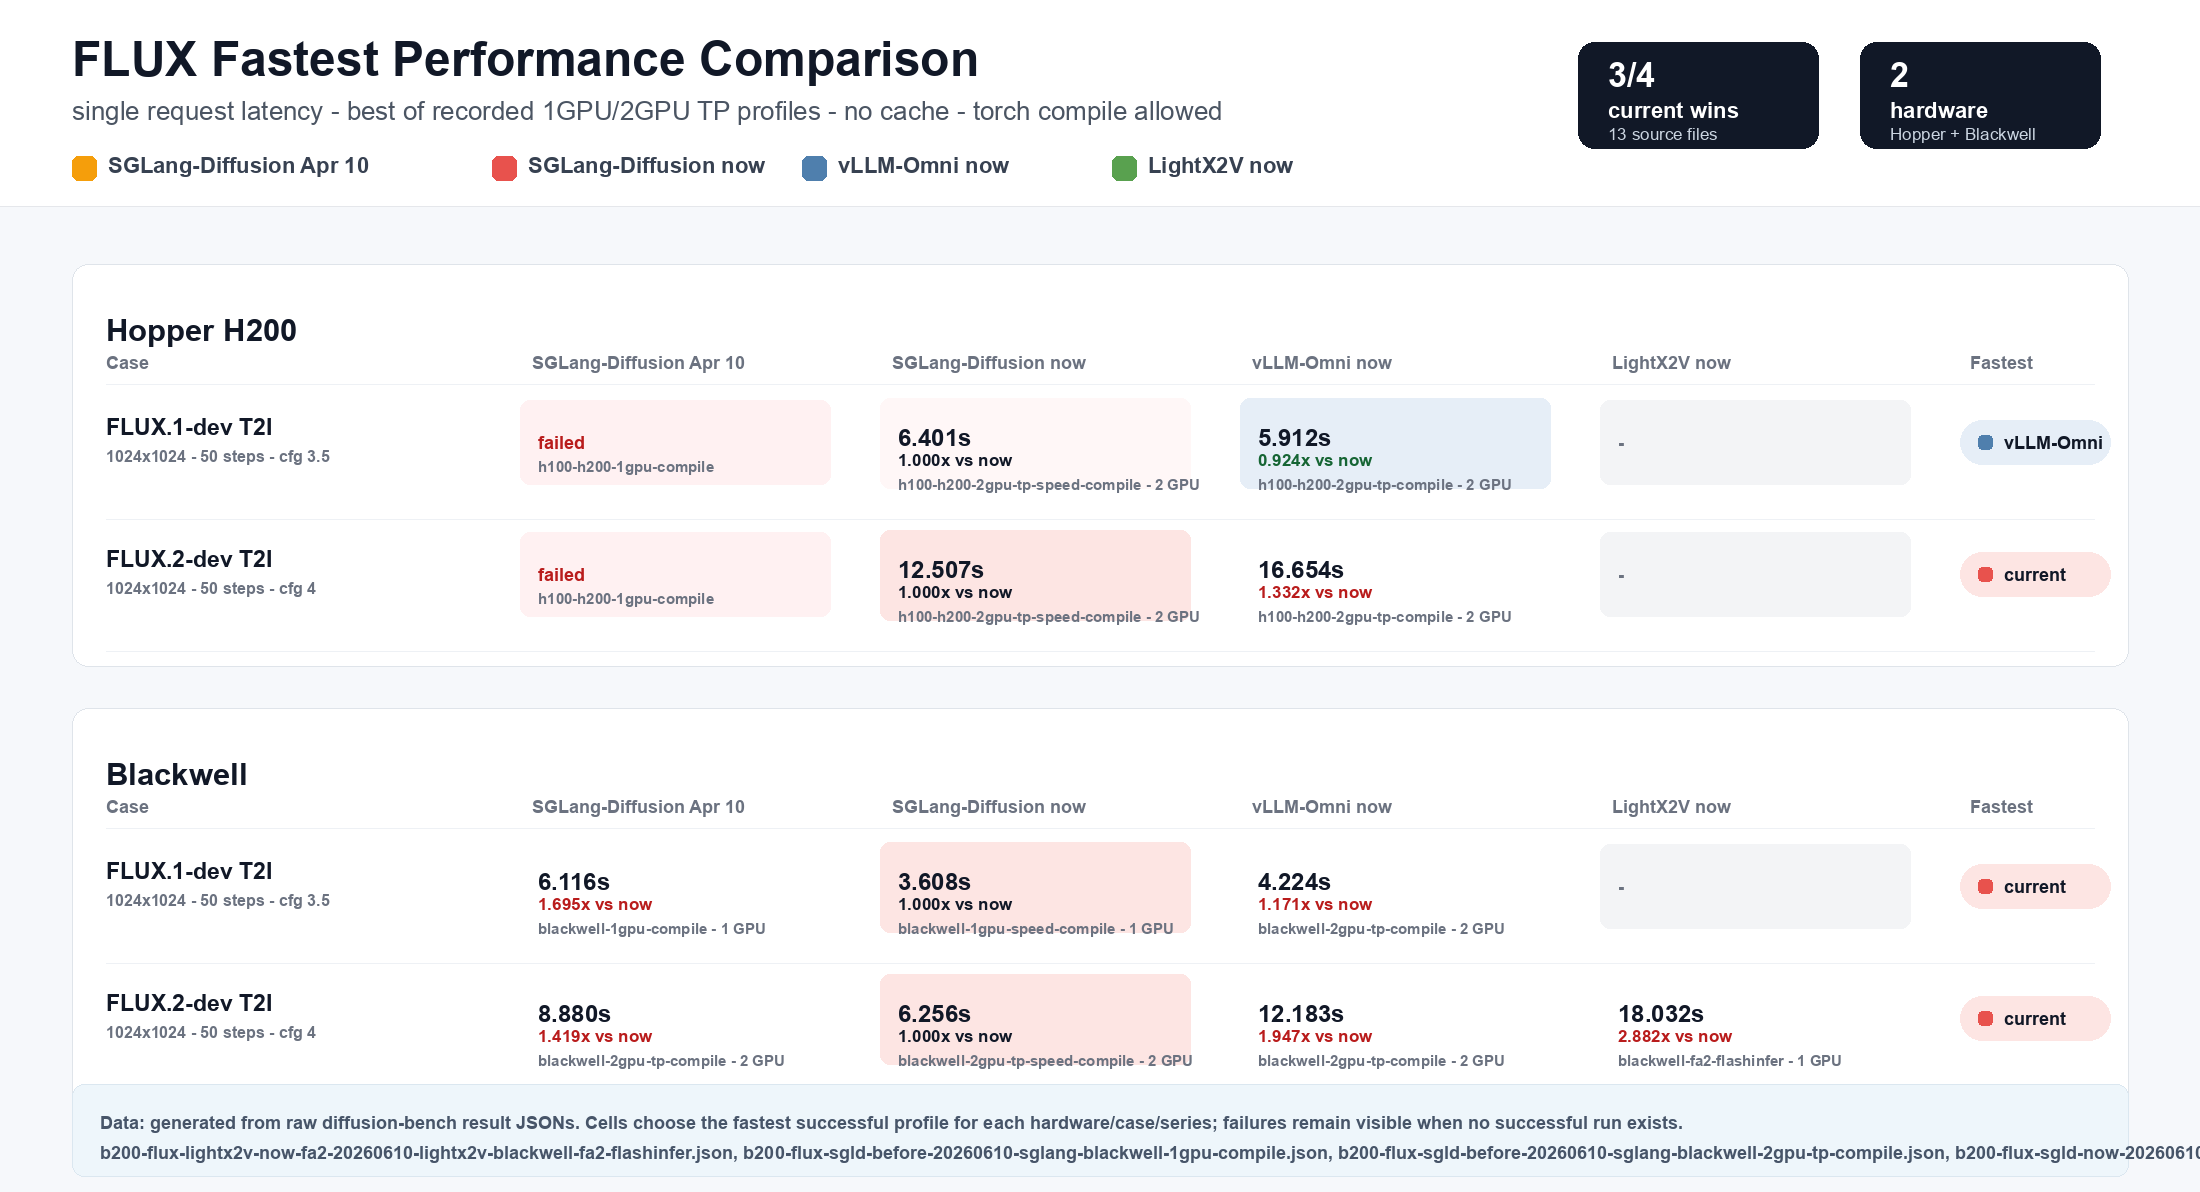
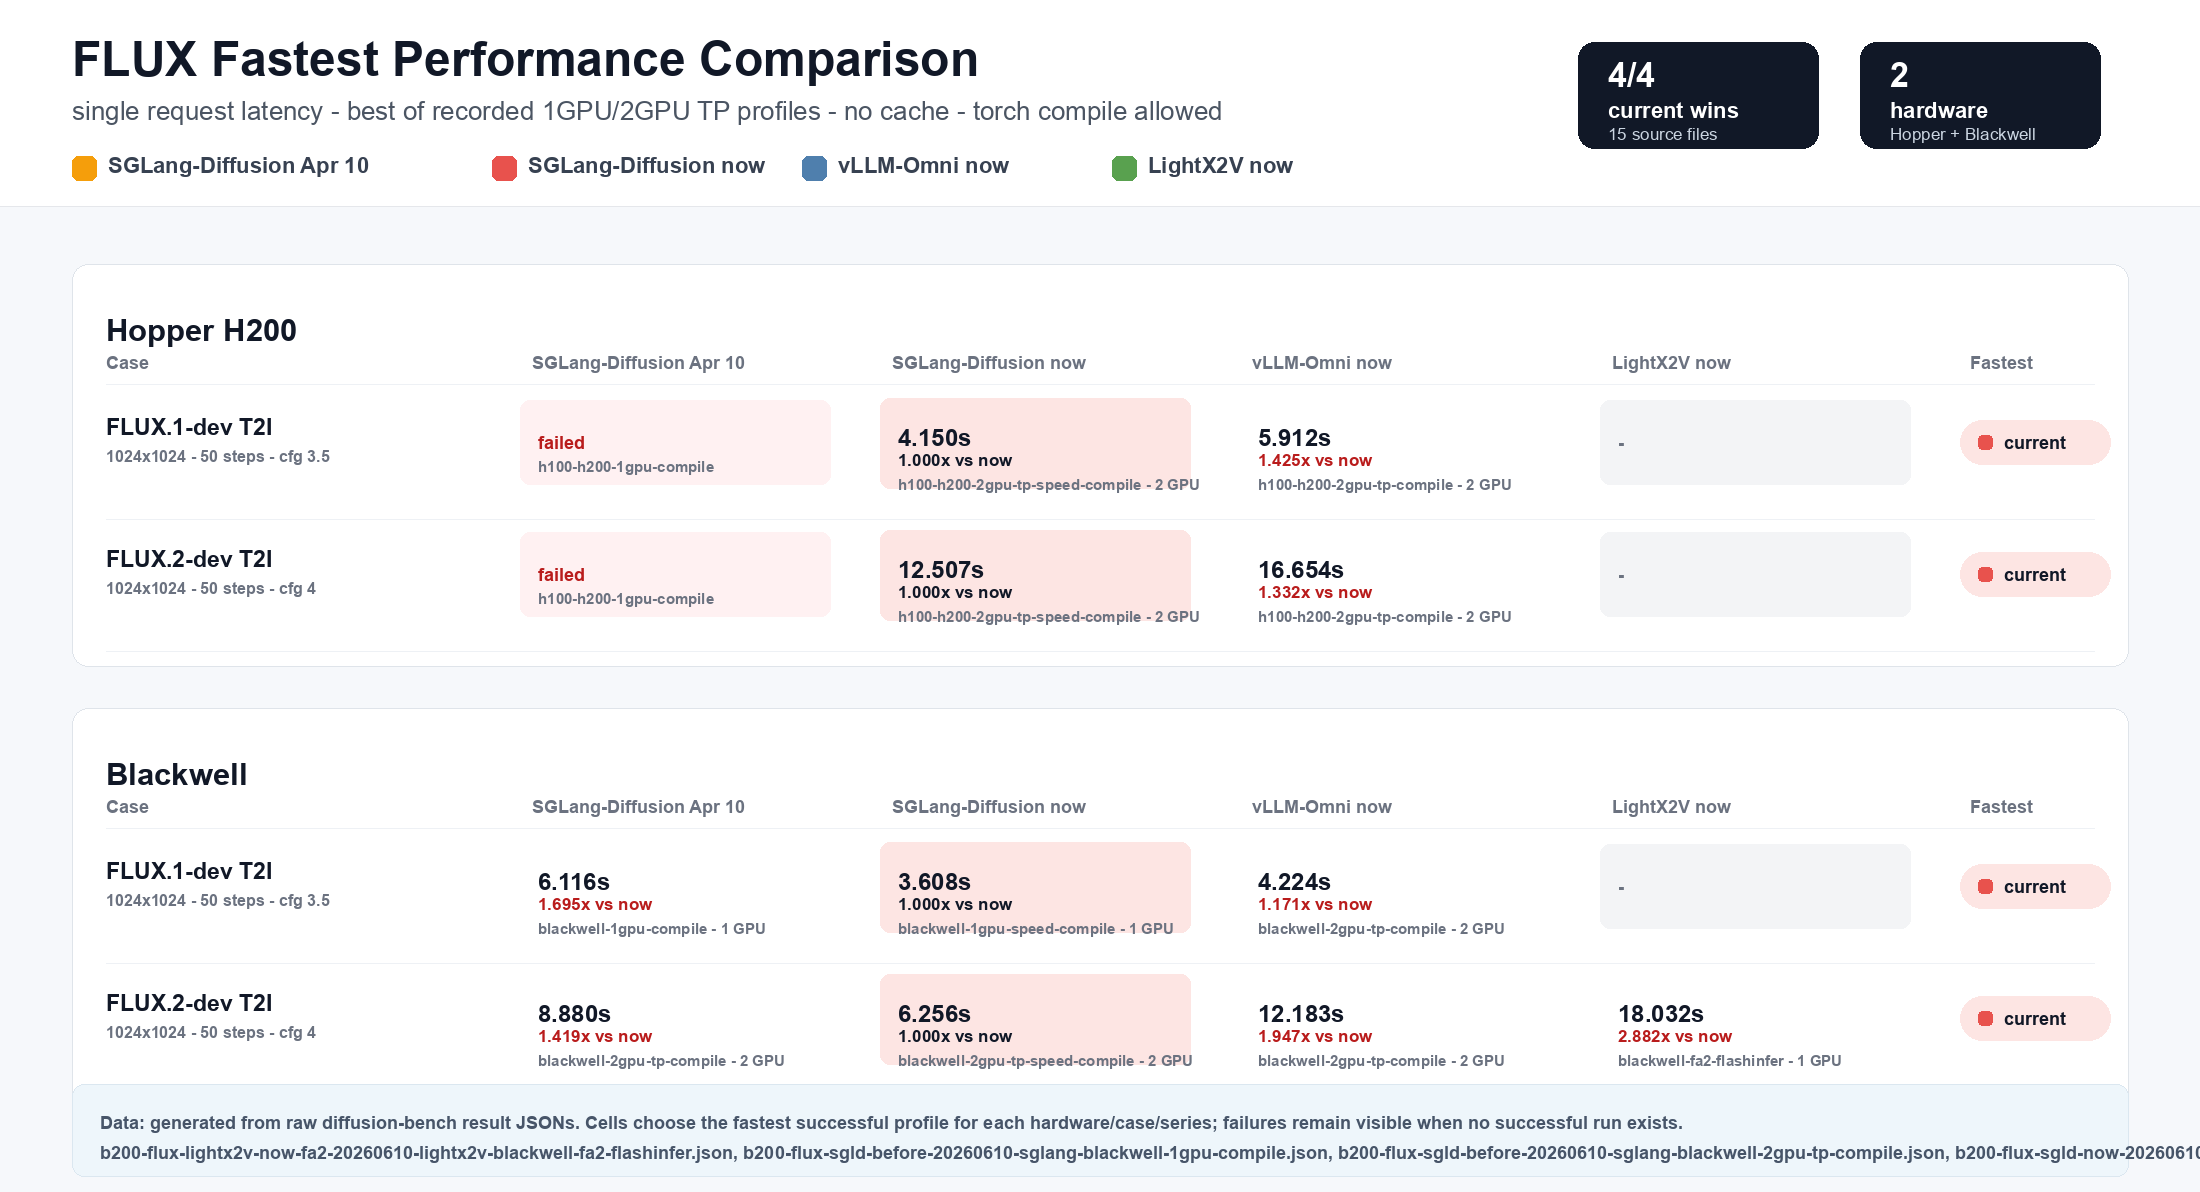
Update SGLang Diffusion TP fix benchmark data

Changed region(s): [[0.5564, 0.3104, 0.7109, 0.4346], [0.8964, 0.3414, 0.9582, 0.3725], [0.4018, 0.3414, 0.4327, 0.3725]]

diff --git a/docs/index.html b/docs/index.html
@@ -1337,12 +1337,15 @@
       };
 
       const fallbackData = {
-        id: "h200-main-b0d888a-flux1-cosmos3-20260610",
-        updated_at: "2026-06-10",
-        source_report: "h200-main-b0d888a-flux1-cosmos3-20260610",
+        id: "h200-flux1-tpfix-cosmos3-20260611",
+        updated_at: "2026-06-11",
+        source_report: "reports/flux-fastest-20260610 + reports/h200-main-b0d888a-flux1-cosmos3-20260610",
         frameworks: {
           sglang_diffusion_now: {
-            commit: "b0d888a195c3ee30350a7681d36efb0dde5fd4a9"
+            commit: "796a6080518041c671c4bef347a2d46f314f2f90",
+            measured_commit: "e25f72d8bbfab7039e2ec9ccbc38d33a88b329ad",
+            reference_commit: "b0d888a195c3ee30350a7681d36efb0dde5fd4a9",
+            note: "FLUX.1 rows use the TP-sharding fix branch. Cosmos3 rows are the 2026-06-10 reference spot-check because this patch only changes FLUX.1."
           },
           vllm_omni_now: {
             vllm: "0.22.0",
@@ -1351,10 +1354,10 @@
         },
         summary: {
           same_gpu_cases: 4,
-          sglang_diffusion_wins: 3,
-          vllm_omni_wins: 1,
+          sglang_diffusion_wins: 4,
+          vllm_omni_wins: 0,
           headline:
-            "On the aligned H200 spot-check, SGLang-Diffusion wins 3 of 4 same-GPU cases; vLLM-Omni wins FLUX.1 2GPU TP by 1.08x."
+            "On the aligned H200 spot-check, SGLang-Diffusion wins 4 of 4 same-GPU cases after the FLUX.1 TP sharding fix."
         },
         rows: [
           {
@@ -1362,22 +1365,22 @@
             details: "1024x1024 - 50 steps - cfg 3.5",
             gpus: "1 GPU",
             torch_compile: "on",
-            sglang_diffusion: { client_latency_s: 6.566, server_latency_s: 6.392, profile: "h100-h200-1gpu-speed-compile" },
+            sglang_diffusion: { client_latency_s: 6.556, server_latency_s: 6.381, profile: "h100-h200-1gpu-speed-compile" },
             vllm_omni: { client_latency_s: 7.288, profile: "h100-h200-1gpu-compile" },
             winner: "SGLang-Diffusion",
             winner_speedup: "1.11x",
-            note: "same-GPU image path; SGLang speed mode + CUDA norm"
+            note: "same-GPU image path; SGLang speed mode + CUDA norm; TP-fix branch"
           },
           {
             case: "FLUX.1-dev T2I",
             details: "1024x1024 - 50 steps - cfg 3.5",
             gpus: "2 GPU TP",
             torch_compile: "on",
-            sglang_diffusion: { client_latency_s: 6.4, server_latency_s: 6.239, profile: "h100-h200-2gpu-tp-speed-compile" },
+            sglang_diffusion: { client_latency_s: 4.15, server_latency_s: 4.005, profile: "h100-h200-2gpu-tp-speed-compile" },
             vllm_omni: { client_latency_s: 5.912, profile: "h100-h200-2gpu-tp-compile" },
-            winner: "vLLM-Omni",
-            winner_speedup: "1.08x",
-            note: "vLLM has better FLUX.1 TP scaling in this spot-check"
+            winner: "SGLang-Diffusion",
+            winner_speedup: "1.42x",
+            note: "same 2GPU TP image path after FLUX.1 TP sharding fix"
           },
           {
             case: "Cosmos3 Nano T2I",
@@ -1553,11 +1556,17 @@
           .join("");
 
         const sgldCommit = data.frameworks?.sglang_diffusion_now?.commit || fallbackData.frameworks.sglang_diffusion_now.commit;
+        const sgldMeasuredCommit = data.frameworks?.sglang_diffusion_now?.measured_commit;
+        const sgldNote = data.frameworks?.sglang_diffusion_now?.note;
         const vllmCommit =
           data.frameworks?.vllm_omni_now?.vllm_omni_commit || fallbackData.frameworks.vllm_omni_now.vllm_omni_commit;
+        const sgldLabel = sgldMeasuredCommit
+          ? `SGLang-Diffusion ${sgldCommit.slice(0, 8)} (measured ${sgldMeasuredCommit.slice(0, 8)})`
+          : `SGLang-Diffusion ${sgldCommit.slice(0, 8)}`;
         document.getElementById("benchmarkNote").textContent =
-          `SGLang-Diffusion ${sgldCommit.slice(0, 8)}; vLLM-Omni ${vllmCommit.slice(0, 8)}. ` +
-          "Client-side latency is the comparison source; server-side time is shown where available.";
+          `${sgldLabel}; vLLM-Omni ${vllmCommit.slice(0, 8)}. ` +
+          "Client-side latency is the comparison source; server-side time is shown where available." +
+          (sgldNote ? ` ${sgldNote}` : "");
         document.getElementById("footerSource").textContent =
           `Benchmark data updated ${data.updated_at || fallbackData.updated_at} from ${data.source_report || data.id}.`;
       }

diff --git a/scripts/export_historical_onepager_data.py b/scripts/export_historical_onepager_data.py
@@ -256,7 +256,7 @@ def flux_series(run_id: str, framework: str) -> str | None:
     if framework == "sglang":
         if "sgld-before" in run_id:
             return "sglang_before"
-        if "sgld-now" in run_id:
+        if "sgld-now" in run_id or "sgld-tpfix" in run_id:
             return "sglang_now"
     if framework == "vllm-omni":
         return "vllm_omni_now"

diff --git a/reports/flux-fastest-20260610/summary.md b/reports/flux-fastest-20260610/summary.md
@@ -10,6 +10,7 @@ Scope: single-request latency, client-side timing, no response cache or Cache-Di
 | --- | --- |
 | SGLang-Diffusion Apr 10 | `8227187d472da41a9c56ab6a0d1ba11efc574dd5` |
 | SGLang-Diffusion now | `165331a2004fbda1531091341ed081d6a39d2162` |
+| SGLang-Diffusion TP fix | `796a6080518041c671c4bef347a2d46f314f2f90` (`e25f72d8bbfab7039e2ec9ccbc38d33a88b329ad` measured; final head differs only by a comment amend) |
 | vLLM-Omni now | `vllm==0.22.0`, `vllm-omni@73df8326d76fe3bba0b7b5a6abf6ad68976f24e8` |
 | LightX2V now | `LightX2V@3db87106bafd980f0eeaffdb0d61dd26b364290c`, FA2 on Blackwell |
 
@@ -17,7 +18,7 @@ Scope: single-request latency, client-side timing, no response cache or Cache-Di
 
 | Case | SGLang-Diffusion Apr 10 | SGLang-Diffusion now | vLLM-Omni now | LightX2V now | Fastest |
 | --- | ---: | ---: | ---: | ---: | --- |
-| FLUX.1-dev T2I | env failed | 6.401s, server 6.238s, 2GPU | 5.912s, 2GPU | not run | vLLM-Omni |
+| FLUX.1-dev T2I | env failed | 4.150s, server 4.005s, 2GPU TP fix | 5.912s, 2GPU | not run | SGLang-Diffusion TP fix |
 | FLUX.2-dev T2I | env failed | 12.507s, server 12.409s, 2GPU | 16.654s, 2GPU | not run | SGLang-Diffusion now |
 
 ## Blackwell B200
@@ -42,6 +43,7 @@ HARDWARE_PROFILE=b200 RUN_ID_ROOT=b200-flux-vllm-now-flashinfer-20260610 FRAMEWO
 HARDWARE_PROFILE=b200 RUN_ID_ROOT=b200-flux-lightx2v-now-fa2-20260610 FRAMEWORKS=lightx2v LIGHTX2V_PROFILES="blackwell-fa2-flashinfer" scripts/run_flux_fastest_20260610.sh
 
 HARDWARE_PROFILE=h200 RUN_ID_ROOT=h200-flux-sgld-now-xet-20260610 FRAMEWORKS=sglang SGLANG_PROFILES="h100-h200-1gpu-speed-compile h100-h200-2gpu-tp-speed-compile" scripts/run_flux_fastest_20260610.sh
+HARDWARE_PROFILE=h200 RUN_ID_ROOT=h200-flux1-sgld-tpfix-native-20260611 FRAMEWORKS=sglang SGLANG_PROFILES="h100-h200-1gpu-speed-compile h100-h200-2gpu-tp-speed-compile" CASE_IDS=flux1_dev_t2i_1024 REPORT_DIR=/scratch/flux1_tp_shard_20260611/report/raw PORT_BASE=31680 scripts/run_flux_fastest_20260610.sh
 HARDWARE_PROFILE=h200 RUN_ID_ROOT=h200-flux-vllm-now-20260610 FRAMEWORKS=vllm-omni VLLM_OMNI_PROFILES="h100-h200-1gpu-compile h100-h200-2gpu-tp-compile" scripts/run_flux_fastest_20260610.sh
 ```
 